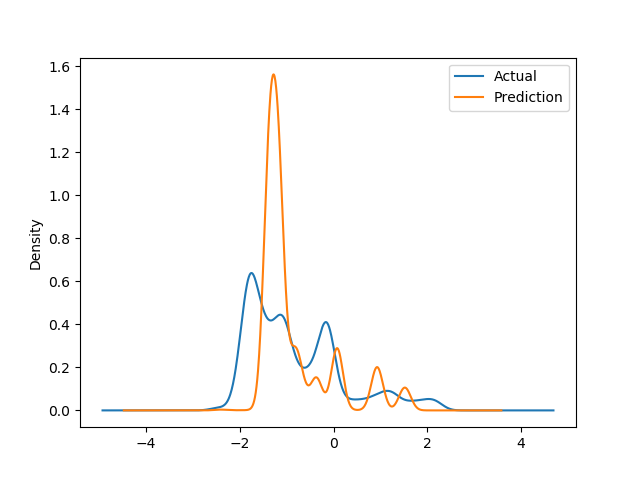
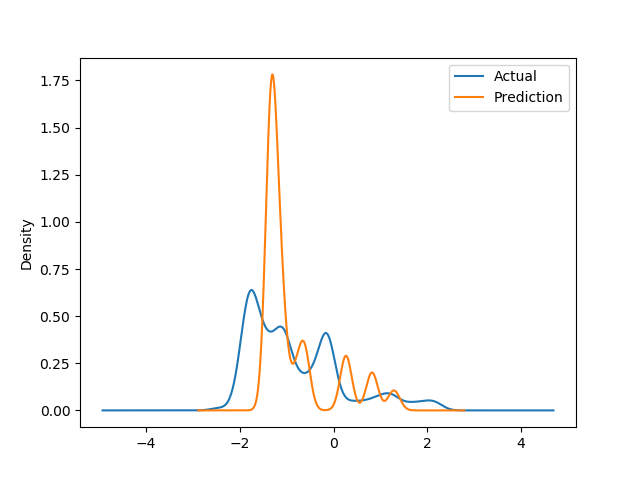
update

diff --git a/src/LinearReg.py b/src/LinearReg.py
@@ -67,7 +67,7 @@ def main(profile, input_col, label_col, cross, profile_test):
 
 
 if __name__ == '__main__':
-    input_col = ["coolant", "i_d", "i_q", "u_d", "u_q", "i", "u", "Power"]
+    input_col = ["coolant", "i_d", "i_q", "u_d", "u_q"]
     label_col = ["pm","stator_yoke", "stator_tooth", "stator_winding"]
     path = 'profile_data/Profile_4.csv'
     main(profile=4,
